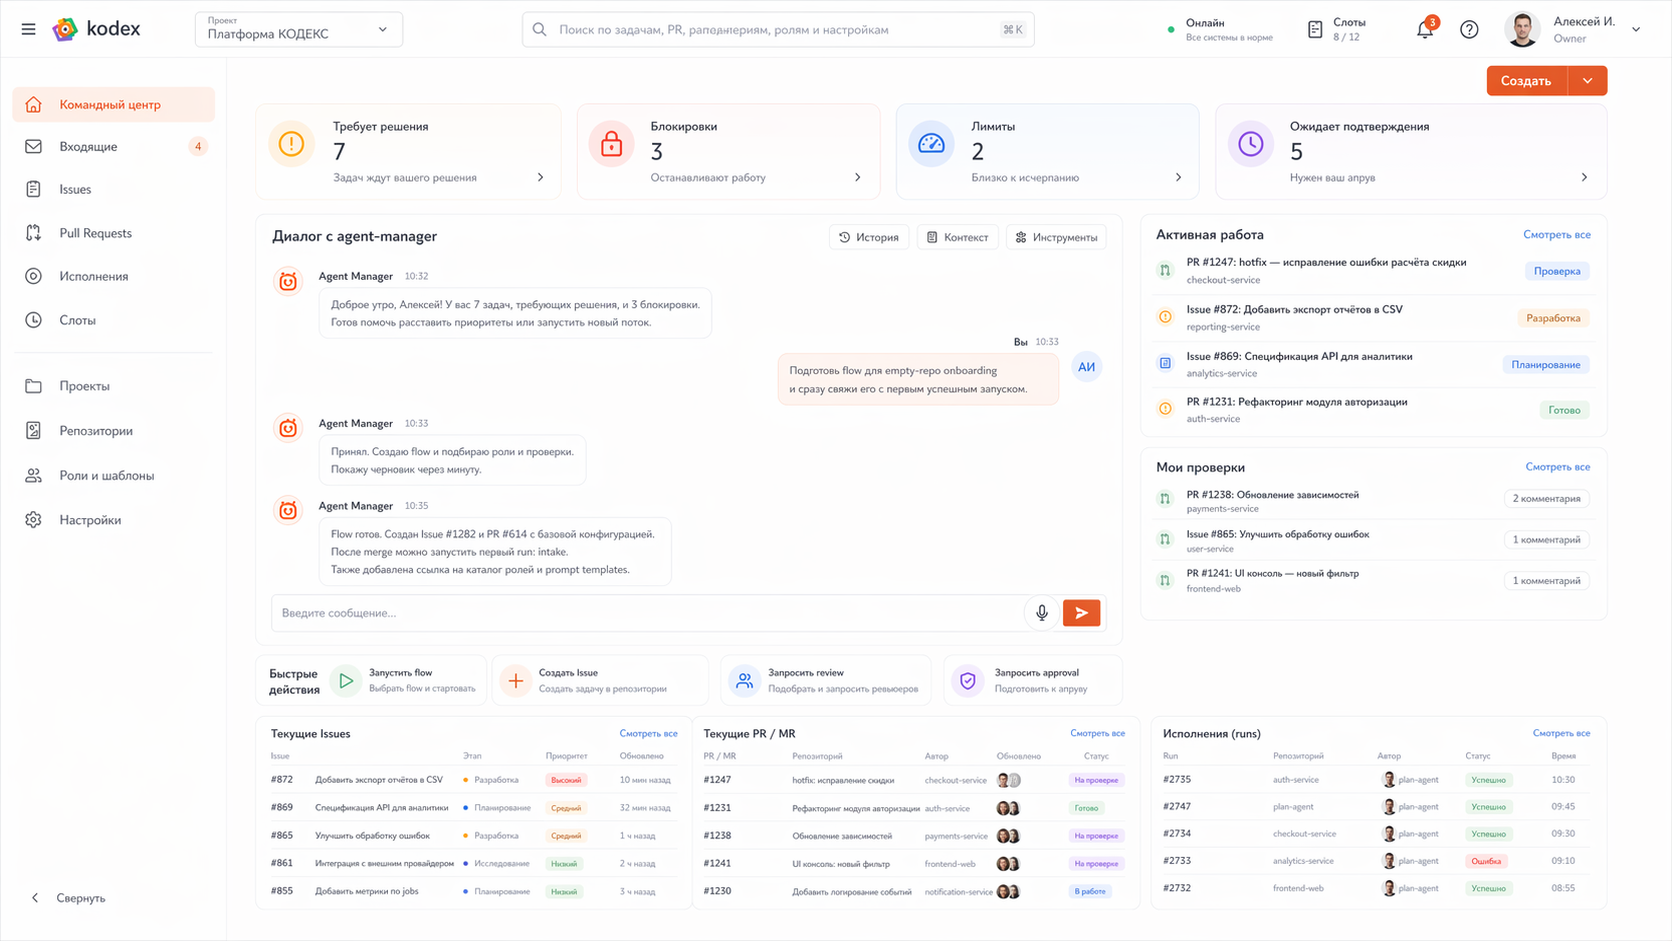
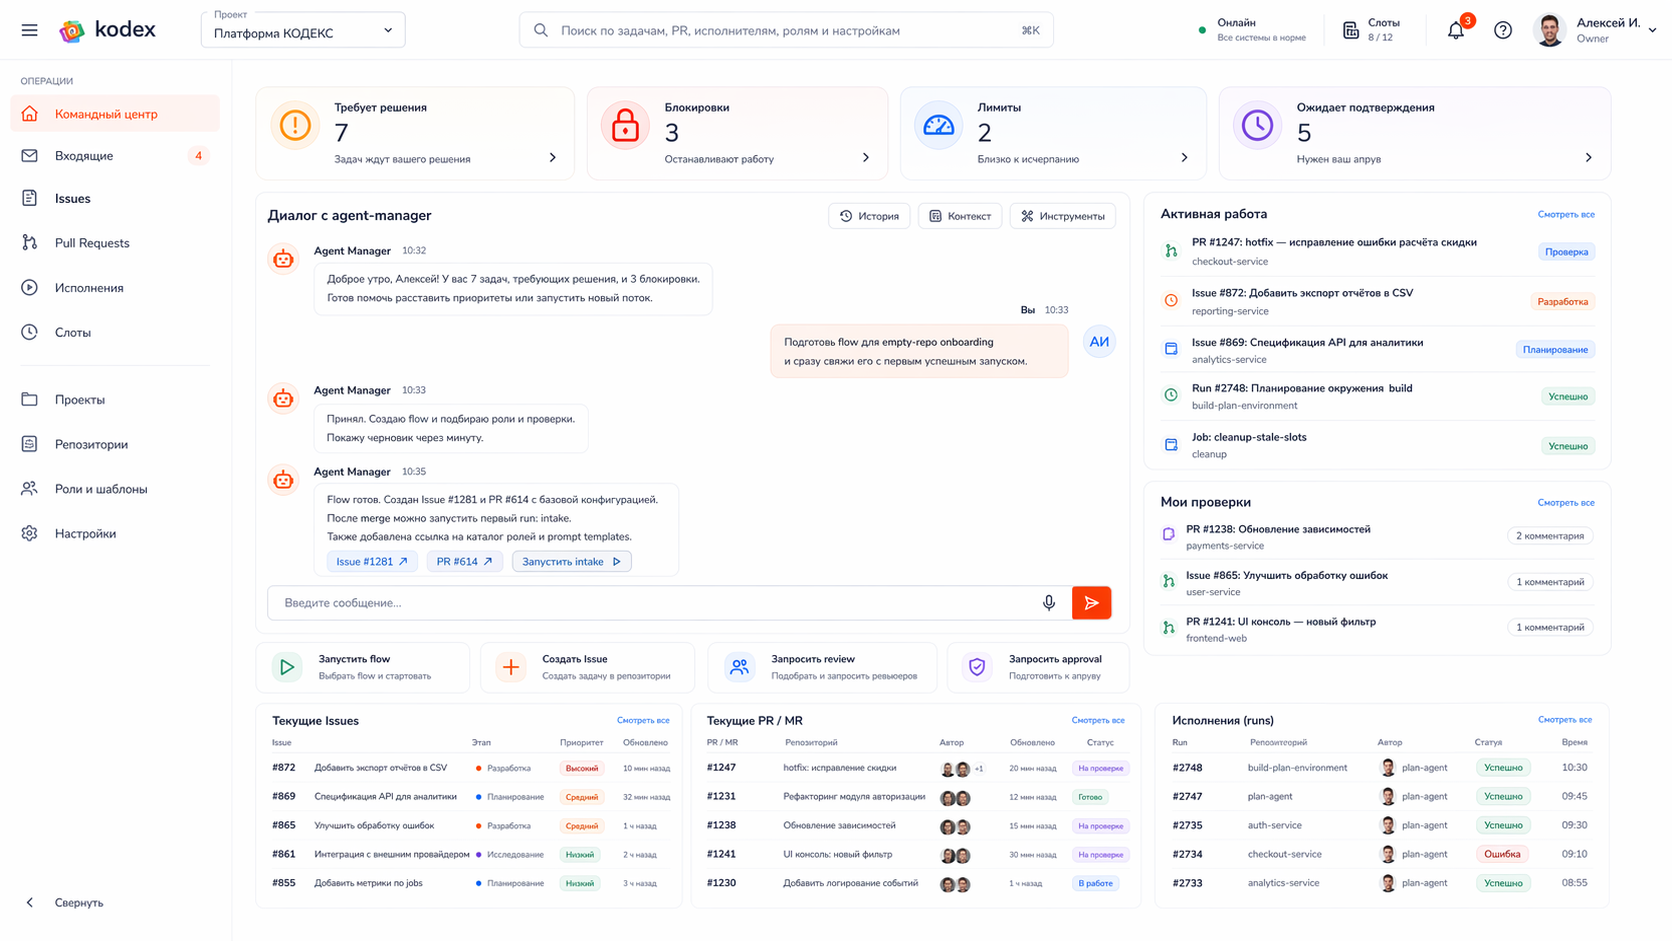
Refine wave five mockups and workspace semantics

diff --git a/refactoring/18-workspaces-onboarding-and-operator-surfaces.md b/refactoring/18-workspaces-onboarding-and-operator-surfaces.md
@@ -43,7 +43,7 @@ approvals:
 | Секция | Что показывает | На чём основана |
 |---|---|---|
 | Summary | тип задачи, текущий статус, следующий шаг, риск, владелец решения | состояние провайдера + проекция `agent-manager`/`operations-hub` |
-| Conversation | диалог по задаче, контекст agent-manager, комментарии провайдера, текстовый и голосовой ввод | комментарии провайдера + проекция взаимодействия |
+| Conversation | диалог по задаче, контекст agent-manager, комментарии провайдера, текстовый и голосовой ввод, action badges внутри сообщений | комментарии провайдера + проекция взаимодействия |
 | Связанные артефакты | связанные `PR/MR`, follow-up `Issue`, approvals, evidence summaries | provider relationships + acceptance projection |
 | Проверки и решения | статус приёмки, роли reviewer/`qa`/управления рисками, ожидающий Human gate | `agent-manager`, governance projection |
 | Исполнения | agent `run`, platform `job`, сводка по slot | `runtime-manager` + `operations-hub` |
@@ -56,7 +56,8 @@ approvals:
 - список связанных `PR/MR`;
 - явное выделение основного `PR/MR` текущего этапа, если он определён flow-правилами;
 - статусы проверок и review по каждому `PR/MR` отдельно;
-- быстрый переход в GitHub/GitLab по каждому связанному артефакту.
+- быстрый переход в GitHub/GitLab по каждому связанному артефакту;
+- отдельную кнопку внешнего перехода на уровне каждого `PR/MR` и связанного `Issue`, а не одну общую кнопку на весь блок.
 
 ### 1.2.2. Что означают нижние вкладки рабочего пространства
 Нижний блок рабочего пространства должен иметь устойчивую семантику:
@@ -115,16 +116,16 @@ approvals:
 ### 3.2. Канонический состав командного центра
 - основной чат с agent-manager;
 - история последних диалогов и возобновляемых сессий;
-- действие `Создать`;
+- блок быстрых действий внутри основного полотна;
 - голосовой запуск;
 - виджеты центра внимания;
-- короткий список активной работы по проекту и репозиторию;
+- раздельные блоки `Активная работа` и `Мои проверки`;
 - переходы в `Issue`, `PR/MR`, `run`, `job` и настройки.
 
 ### 3.3. Как пользователь запускает работу
 Канонические способы:
 - текстом или голосом в чате agent-manager;
-- через `Создать`;
+- через блок быстрых действий в командном центре;
 - через переход из существующего `Issue` или `PR/MR`;
 - через внешнюю интеграцию по единому контракту;
 - через mention в GitHub/GitLab.
@@ -258,6 +259,7 @@ Wave 5 закрывает проблему первого запуска на у
 - горизонтальной stage-линией;
 - основным диалогом и action-полосой в центре;
 - отдельным блоком связанных `PR/MR`, а не одного `PR`;
+- badge-действиями внутри сообщений агента и маленькими внешними переходами у каждого артефакта;
 - нижними вкладками с устойчивой семантикой артефактов, проверок, связей и истории.
 
 ![Текущий макет рабочего пространства Issue](images/wave5/02-issue-workspace/screen.png)

diff --git a/refactoring/19-flow-role-prompt-and-settings-ux.md b/refactoring/19-flow-role-prompt-and-settings-ux.md
@@ -56,12 +56,12 @@ Flow платформы — это не произвольный граф чег
 | Блок | Что настраивается |
 |---|---|
 | Идентичность этапа | ключ этапа, название, описание, тип создаваемой задачи |
-| Артефакты | нужен ли `PR/MR`, нужен ли follow-up `Issue`, нужны ли структурированные комментарии |
+| Артефакты | нужен ли `PR/MR`, нужны ли структурированные комментарии |
 | Приёмка | профиль приёмки, требования к watermark, обязательные проверки |
 | Привязки ролей к этапу | кто исполняет этап, кто проверяет, кто работает как `gatekeeper`, кто подключается как вспомогательная роль |
 | Human gate | где нужен человек и какой тип решения требуется |
 | Runtime | `code-only`, `full-env`, reuse slot, production-read-only |
-| Переход | следующий этап, ветвление, условия остановки, логика follow-up |
+| Переход | следующий этап, ветвление, условия остановки, создание follow-up `Issue` и логика handover |
 
 ### 2.3. Просмотр потока
 Графический просмотр допустим, но:
@@ -75,6 +75,14 @@ Flow платформы — это не произвольный граф чег
 - делать свободное позиционирование источником истины;
 - смешивать flow-логику с runtime-диагностикой;
 - хранить необязательный визуальный шум вместо правил перехода.
+
+### 2.5. Follow-up не дублируется в артефактах этапа
+`Follow-up Issue` не считается артефактом текущего этапа.
+
+Каноническое правило:
+- блок `Артефакты этапа` описывает только результаты текущего этапа;
+- блок `Переход` описывает создание следующей задачи и handover;
+- Human gate остаётся отдельным блоком и не поглощает настройку follow-up.
 
 ## 3. Каталог ролей
 
@@ -225,7 +233,7 @@ UI должен проектироваться вокруг расширяемо
 - `stage role binding`;
 - acceptance profile;
 - Human gate;
-- переходов и follow-up.
+- переходов и follow-up как части перехода, а не артефактов этапа.
 
 ![Текущий макет редактора flow](images/wave5/03-flow-editor/screen.png)
 

diff --git a/refactoring/images/wave5/01-command-center/screen.md b/refactoring/images/wave5/01-command-center/screen.md
@@ -18,15 +18,17 @@
 - верхняя лента решений и активной работы
 - центральный диалог с agent-manager
 - блок быстрых действий
-- правая колонка активной работы и проверок
+- правая колонка `Активная работа`
+- правая колонка `Мои проверки`
 - списки последних `Issue`, `PR/MR` и исполнений
 
 ## Ключевые действия
-- создать новую работу
 - запустить flow
 - создать `Issue`
 - запросить review
 - запросить approval
+- открыть `Issue` или `PR/MR` из сообщения через badge-кнопку
+- запустить предложенное действие прямо из сообщения агента
 - перейти в `Issue`, `PR/MR`, `run`, `job`
 
 ## Источники данных
@@ -36,7 +38,8 @@
 ## Что намеренно не показывается
 - свободный canvas
 - отдельная плавающая кнопка микрофона на уровне всего экрана
+- отдельная доминирующая кнопка `Создать` в правом верхнем углу
 - подробный diff review
 
 ## Открытые вопросы
-- состав и порядок верхней ленты решений ещё могут быть уточнены после следующего раунда макетирования
+- нет

diff --git a/refactoring/images/wave5/02-issue-workspace/screen.md b/refactoring/images/wave5/02-issue-workspace/screen.md
@@ -23,6 +23,7 @@
 
 ## Ключевые действия
 - дать ответ agent-manager
+- открыть связанный `Issue` или `PR/MR` из сообщения через badge-кнопку
 - перейти к связанному `PR/MR`
 - открыть `run`, `job` или slot
 - выполнить действие по Human gate
@@ -36,6 +37,7 @@
 - отдельная строка артефакта типа `документ`
 - единый блок `Связанный PR`, который скрывает остальные `PR/MR`
 - плавающая кнопка микрофона на уровне экрана
+- одна общая кнопка `Открыть в GitHub` на весь блок связанных `PR/MR`
 
 ## Открытые вопросы
-- нужно ли внутри рабочего пространства явно показывать группировку связанных `PR/MR` по этапу или по роли
+- нет

diff --git a/refactoring/images/wave5/03-flow-editor/screen.md b/refactoring/images/wave5/03-flow-editor/screen.md
@@ -25,7 +25,7 @@
 - настроить артефакты этапа
 - задать `stage role binding`
 - настроить Human gate
-- настроить follow-up и переходы
+- настроить follow-up в блоке перехода
 - создать `PR` с изменениями
 
 ## Источники данных
@@ -35,6 +35,7 @@
 ## Что намеренно не показывается
 - свободное ручное расположение нод как источник истины
 - runtime-диагностика и operational noise
+- дублирование follow-up одновременно в артефактах этапа и в блоке перехода
 
 ## Открытые вопросы
 - нужен ли отдельный режим сравнения двух версий flow прямо в UI, или достаточно diff в `PR`

diff --git a/refactoring/images/wave5/04-role-catalog/screen.md b/refactoring/images/wave5/04-role-catalog/screen.md
@@ -1,6 +1,6 @@
 # Каталог ролей и шаблонов
 
-Статус: `reviewing`
+Статус: `approved`
 
 ## Назначение
 Экран управления профилями встроенных и пользовательских ролей, их шаблонами промптов, MCP-правами и политиками аккаунтов.
@@ -37,4 +37,4 @@
 - сохранение сырого текста шаблона в БД как источника истины
 
 ## Открытые вопросы
-- нужен ли отдельный экран истории версий роли, или достаточно вкладки внутри карточки роли
+- нет

diff --git a/refactoring/images/wave5/index.md b/refactoring/images/wave5/index.md
@@ -25,7 +25,7 @@
    - файлы: `screen.png`, `screen.md`
 
 4. `04-role-catalog`
-   - статус: `reviewing`
+   - статус: `approved`
    - экран: каталог ролей и шаблонов
    - файлы: `screen.png`, `screen.md`
 
